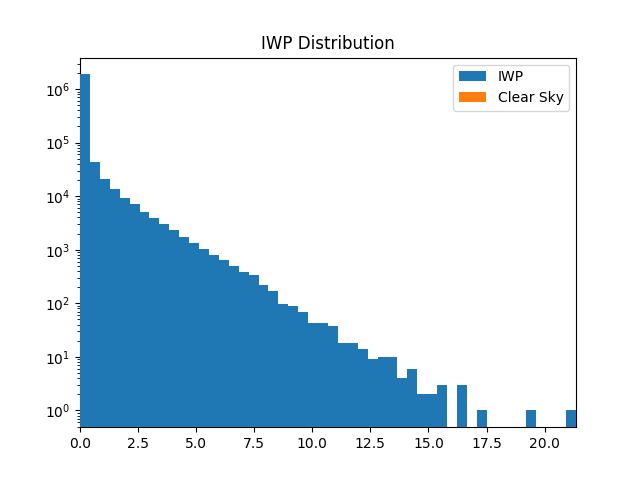
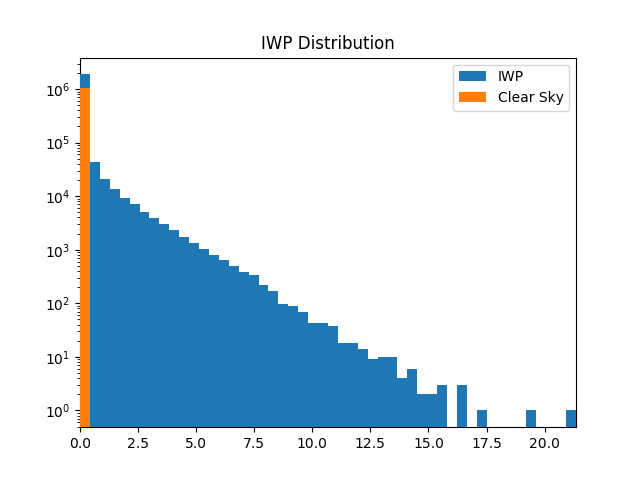
Updated plots.

Changed region(s): [[0.125, 0.1875, 0.1562, 0.9062]]

diff --git a/src/explore.py b/src/explore.py
@@ -183,7 +183,7 @@ class IciData:
         ax = plt.gca()
         ax.set_yscale("log")
         if (self.iwp.min() == 0.0):
-            ax.hist(self.iwp[self.iwp == 0.0], bins1[:2], label="Clear Sky")
+            ax.hist(self.iwp[self.iwp == 0.0], bins1[:2], label="Clear Sky", color="C1", zorder=10)
         ax.set_xlim([0.0, bins1[-1]])
         plt.legend()
         plt.title("IWP Distribution")
